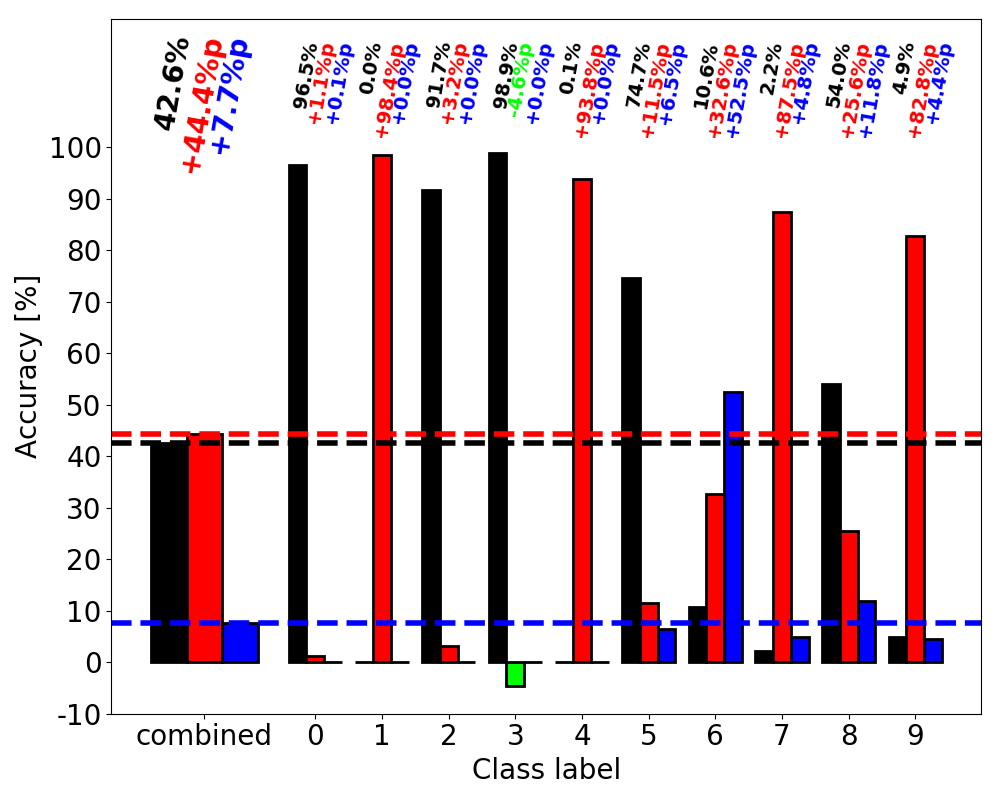
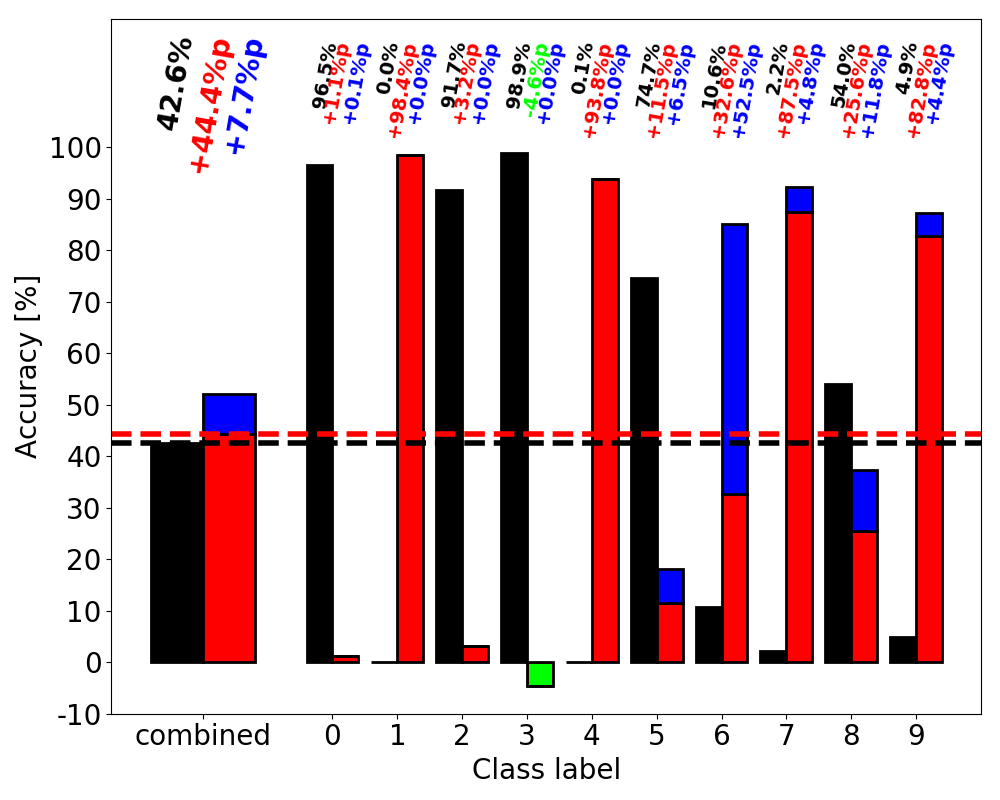
paper upd

diff --git a/MNIST/code/plot_pairwise_knockouts_l1.py b/MNIST/code/plot_pairwise_knockouts_l1.py
@@ -242,7 +242,7 @@ def plot_unit_class_acc2_paper(accs, accs_class, class_perc_redun, title, name):
     fig.subplots_adjust(left=0.07, right=0.95, top=0.95, bottom=0.05)
     ax = fig.add_subplot(111)
 
-    bar_pos = np.linspace(-3, 27, 11, endpoint=True)
+    bar_pos = np.linspace(-2, 18, 11, endpoint=True)
     bar_pos[0] -= 2.0
     bar_widths = np.zeros(11) + 0.8
     bar_widths[0] += 0.8
@@ -252,38 +252,40 @@ def plot_unit_class_acc2_paper(accs, accs_class, class_perc_redun, title, name):
     bar_heights4 = class_perc_redun*100
     bar_heights2 -= bar_heights4
 
-    ax.bar(x=bar_pos - bar_widths, align='center', height=bar_heights3, width=bar_widths,
+    ax.bar(x=bar_pos - 0.5*bar_widths, align='center', height=bar_heights3, width=bar_widths,
            color='k', edgecolor='k', lw=2)
-    ax.bar(x=bar_pos, align='center', height=bar_heights2, width=bar_widths,
+    ax.bar(x=bar_pos + 0.5*bar_widths, align='center', height=bar_heights2, width=bar_widths,
            color='r', edgecolor='k', lw=2)
-    ax.bar(x=bar_pos + bar_widths, align='center', height=bar_heights4, width=bar_widths,
+    bottom = copy.deepcopy(bar_heights2)
+    bottom[bottom < 0] = 0
+    ax.bar(x=bar_pos + 0.5*bar_widths, bottom=bottom, align='center', height=bar_heights4, width=bar_widths,
            color='b', edgecolor='k', lw=2)
     colors = ['k', 'r', 'b']
     for i_bars, bar_heights in enumerate([bar_heights3, bar_heights2, bar_heights4]):
         for i, val in enumerate(bar_heights):
             if i == 0:
                 if i_bars == 0:
-                    ax.text(bar_pos[i]-2.4+1.4*i_bars, 118, "{0:.1f}%".format(val), color=colors[i_bars],
+                    ax.text(bar_pos[i]-1.5, 118, "{0:.1f}%".format(val), color=colors[i_bars],
                         fontsize=20, fontweight='bold', rotation=80)
                 else:
-                    ax.text(bar_pos[i] - 2.6 + 1.3 * i_bars, 118, "+{0:.1f}%p".format(val), color=colors[i_bars],
+                    ax.text(bar_pos[i] - 1.7 + 1.1 * i_bars, 118, "+{0:.1f}%p".format(val), color=colors[i_bars],
                             fontsize=20, fontweight='bold', rotation=80)
             else:
                 if val < 0:
                     color = 'lime'
-                    ax.text(bar_pos[i] - 1.3 + 0.8 * i_bars, 118, "{0:.1f}%p".format(val), color=color,
+                    ax.text(bar_pos[i] - 0.8 + 0.6 * i_bars, 118, "{0:.1f}%p".format(val), color=color,
                             fontsize=14, fontweight='bold', rotation=80)
                 else:
                     color = colors[i_bars]
                     if i_bars == 0:
-                        ax.text(bar_pos[i] - 1.1, 118, "{0:.1f}%".format(val), color=color,
+                        ax.text(bar_pos[i] - 0.7, 118, "{0:.1f}%".format(val), color=color,
                                 fontsize=14, fontweight='bold', rotation=80)
                     else:
-                        ax.text(bar_pos[i] - 1.3 + 0.8 * i_bars, 118, "+{0:.1f}%p".format(val), color=color,
+                        ax.text(bar_pos[i] - 1.0 + 0.6 * i_bars, 118, "+{0:.1f}%p".format(val), color=color,
                                 fontsize=14, fontweight='bold', rotation=80)
     ax.axhline(y=accs[1], ls='--', lw=4, c='k')
     ax.axhline(y=bar_heights2[0], ls='--', lw=4, c='r')
-    ax.axhline(y=bar_heights4[0], ls='--', lw=4, c='b')
+    # ax.axhline(y=bar_heights4[0]+bar_heights2[0], ls='--', lw=4, c='b')
     ax.set_xlabel("Class label", fontsize=20)
     ax.set_ylabel("Accuracy [%]", fontsize=20)
     ax.set_yticks(np.linspace(-10, 100, 12, endpoint=True))

diff --git a/MNIST/code/plot_knockouts_l1.py b/MNIST/code/plot_knockouts_l1.py
@@ -115,7 +115,8 @@ def plot_acc_metric_corr(metrics, accuracies):
 
 def plot_tSNE(testloader, labels, num_samples, name=None, title=None):
     X_img = testloader.dataset.test_data.numpy()[:num_samples]
-
+    X_img_label = testloader.dataset.test_labels.target.numpy()[:num_samples]
+        
     print("loading fitted tSNE coordinates...")
     X_tsne = pickle.load(open("../data/tSNE/X_tSNE_10000.p".format(num_samples), "rb"))
 
